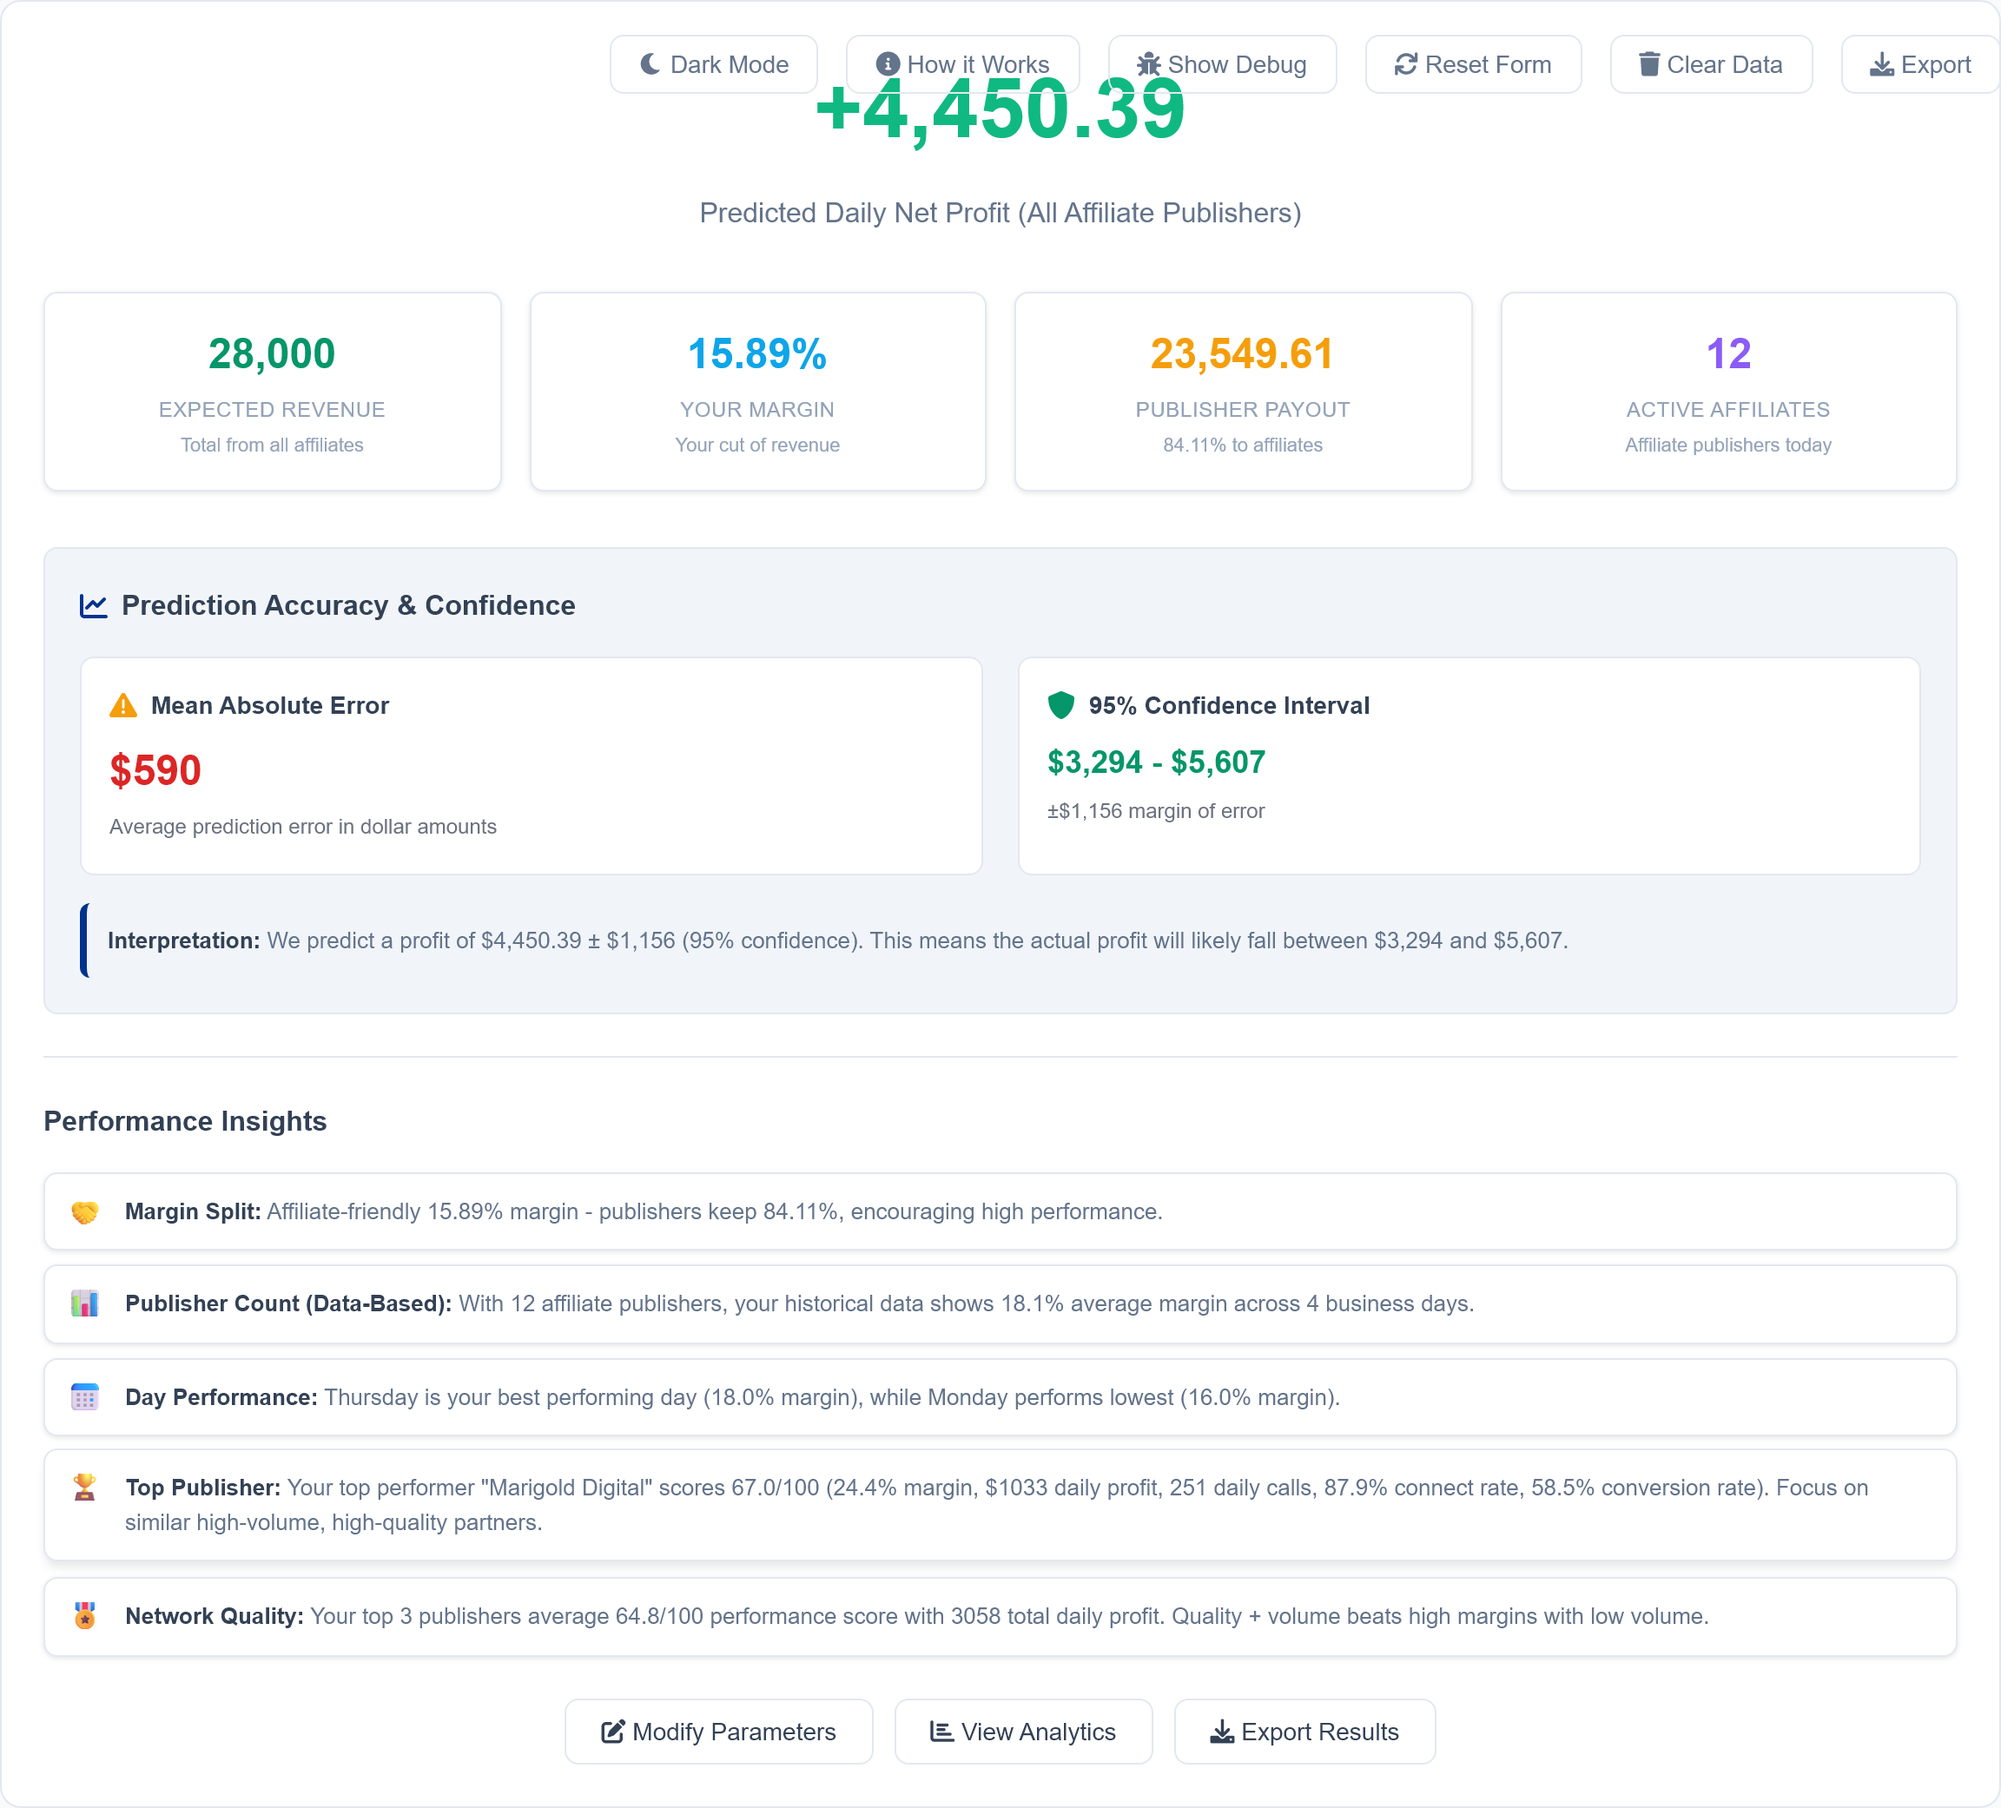
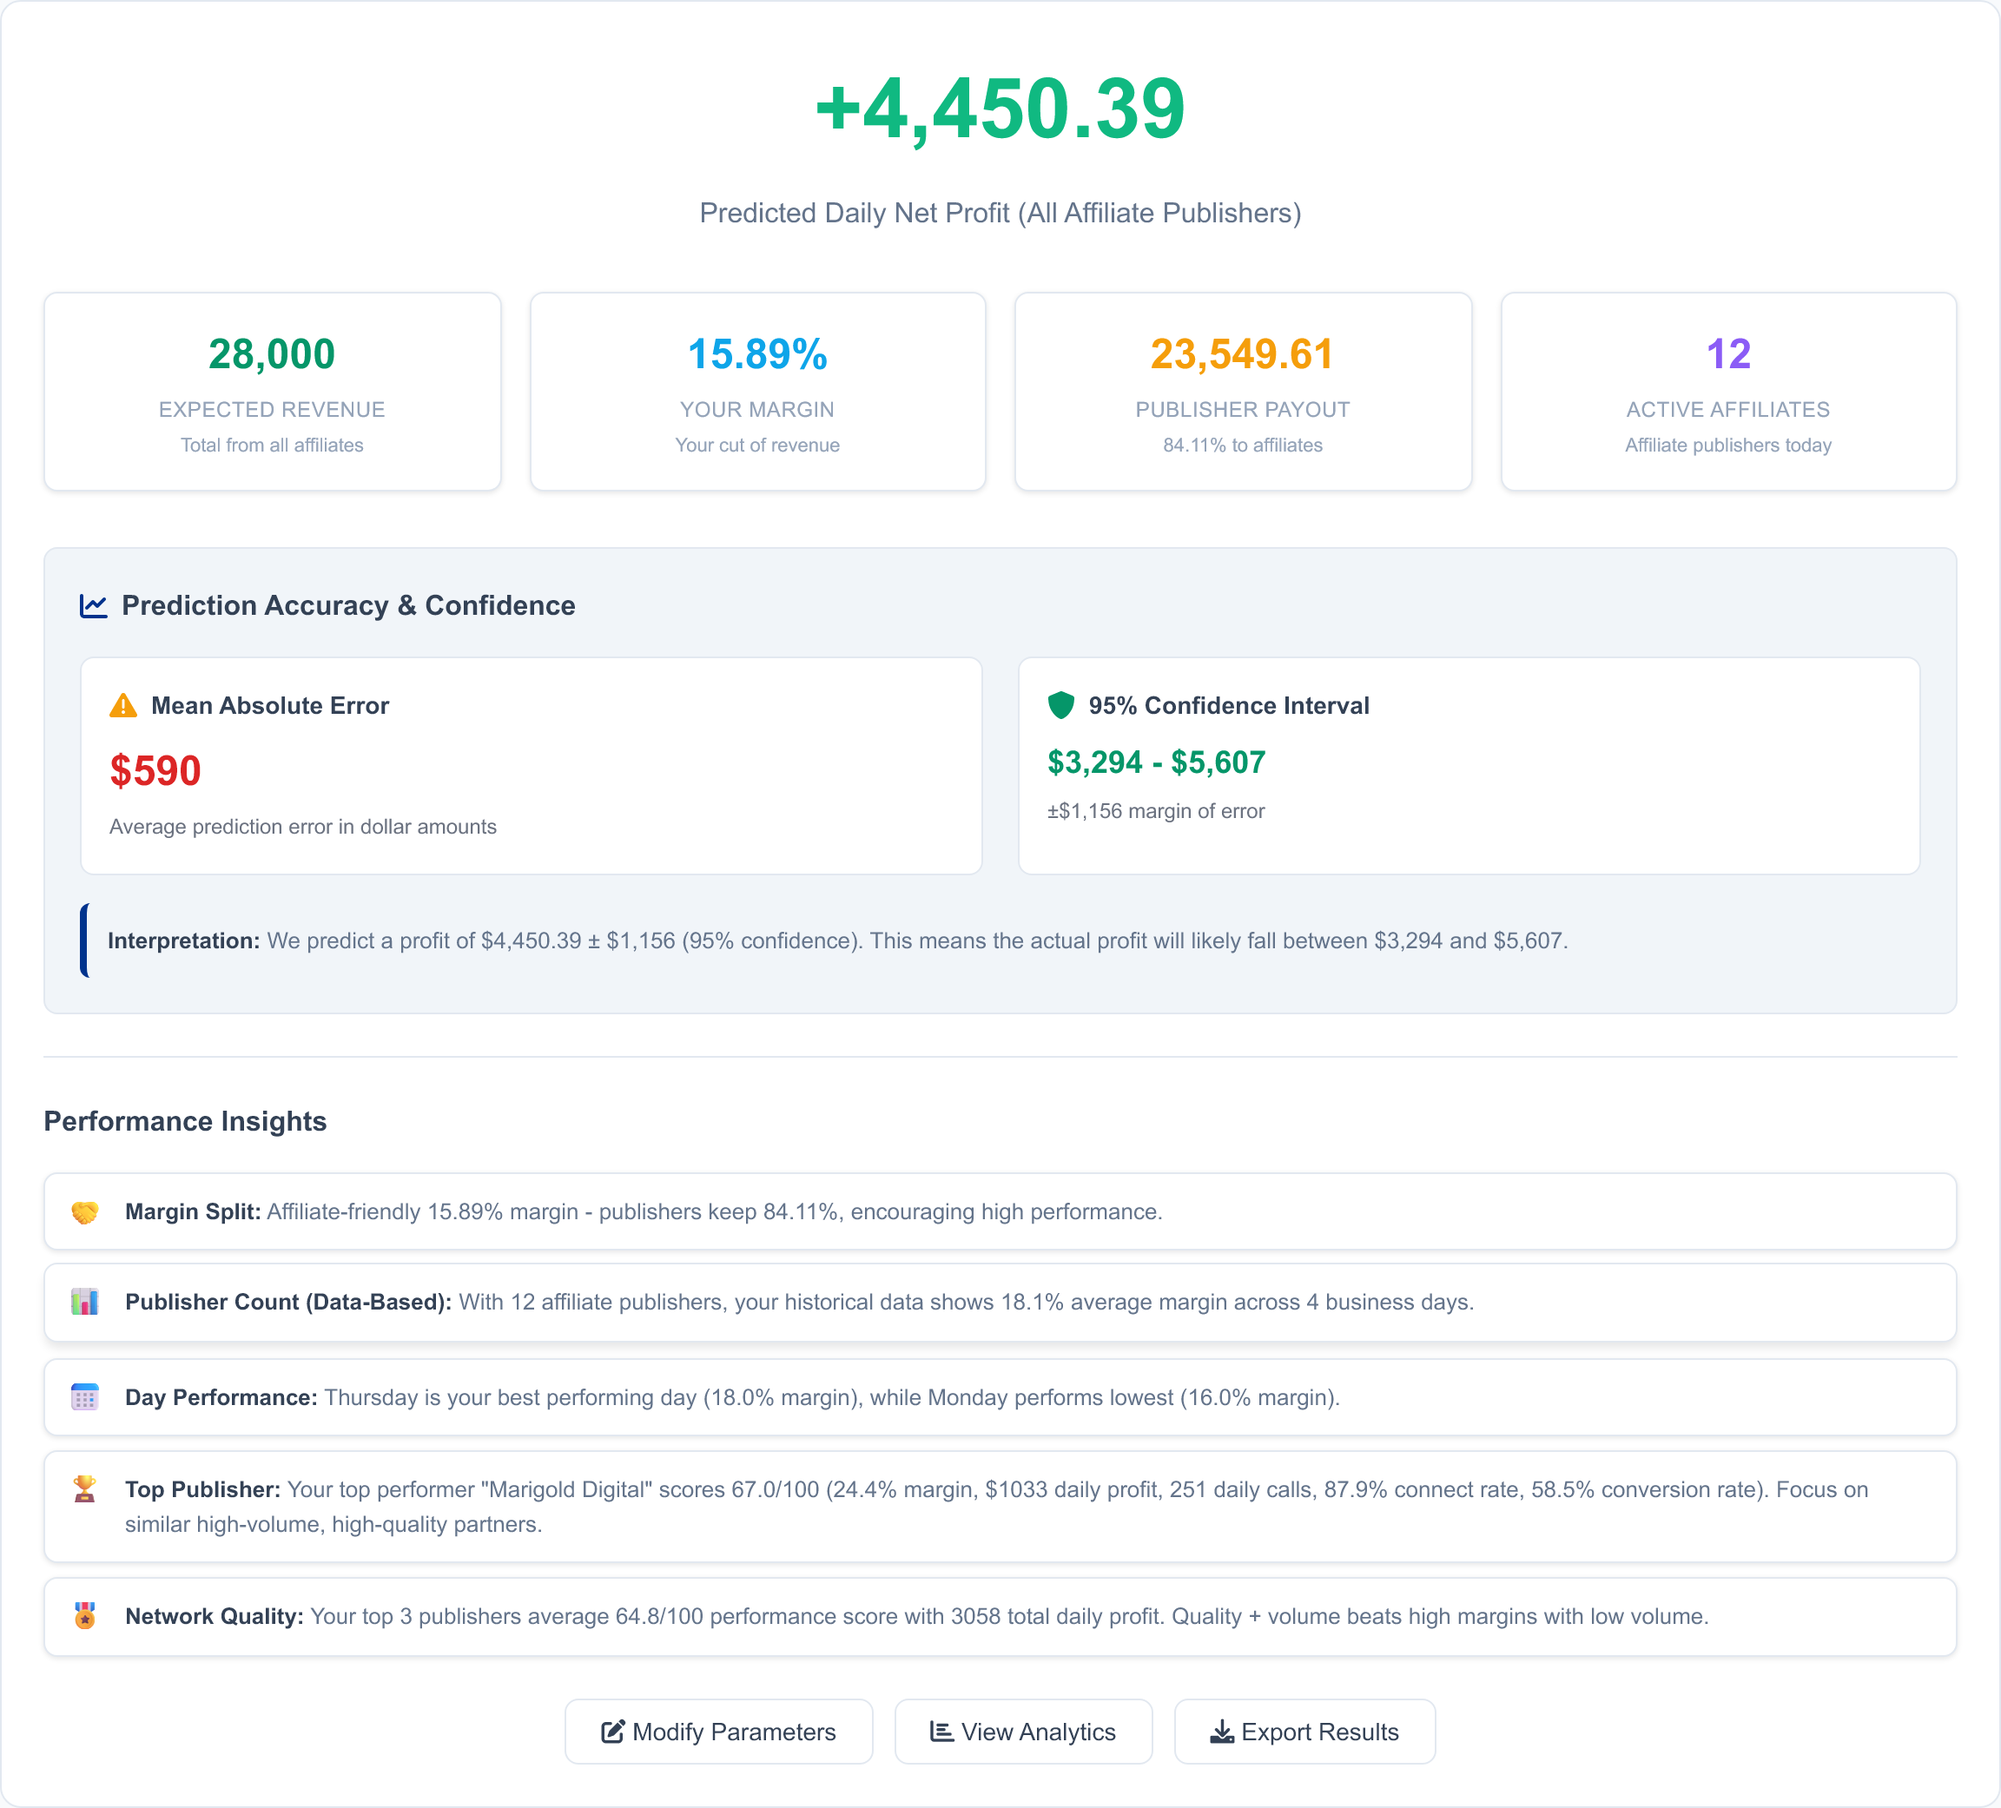
Keep sticky header from covering scrolled-to sections
The header is position:sticky, but the three scrollIntoView calls use
block:'start', which aligns the target flush with the viewport top and
leaves it underneath the header. After a prediction this clipped the
top of the profit figure by 50px.

Add scroll-margin-top to the three scroll targets so the browser stops
short of the header. Verified in Chromium: the profit figure went from
50px overlapped to 50px clear.

Regenerate the screenshots against the fixed layout.

diff --git a/index.html b/index.html
@@ -86,6 +86,14 @@
             transition: background-color 0.3s ease, border-color 0.3s ease;
         }
         
+        /* Keep scrollIntoView targets clear of the sticky header, which would
+           otherwise cover the top of the element it scrolled to. */
+        #results-section,
+        #analytics-details,
+        #prediction-form {
+            scroll-margin-top: 100px;
+        }
+
         .header-content {
             display: flex;
             align-items: center;
